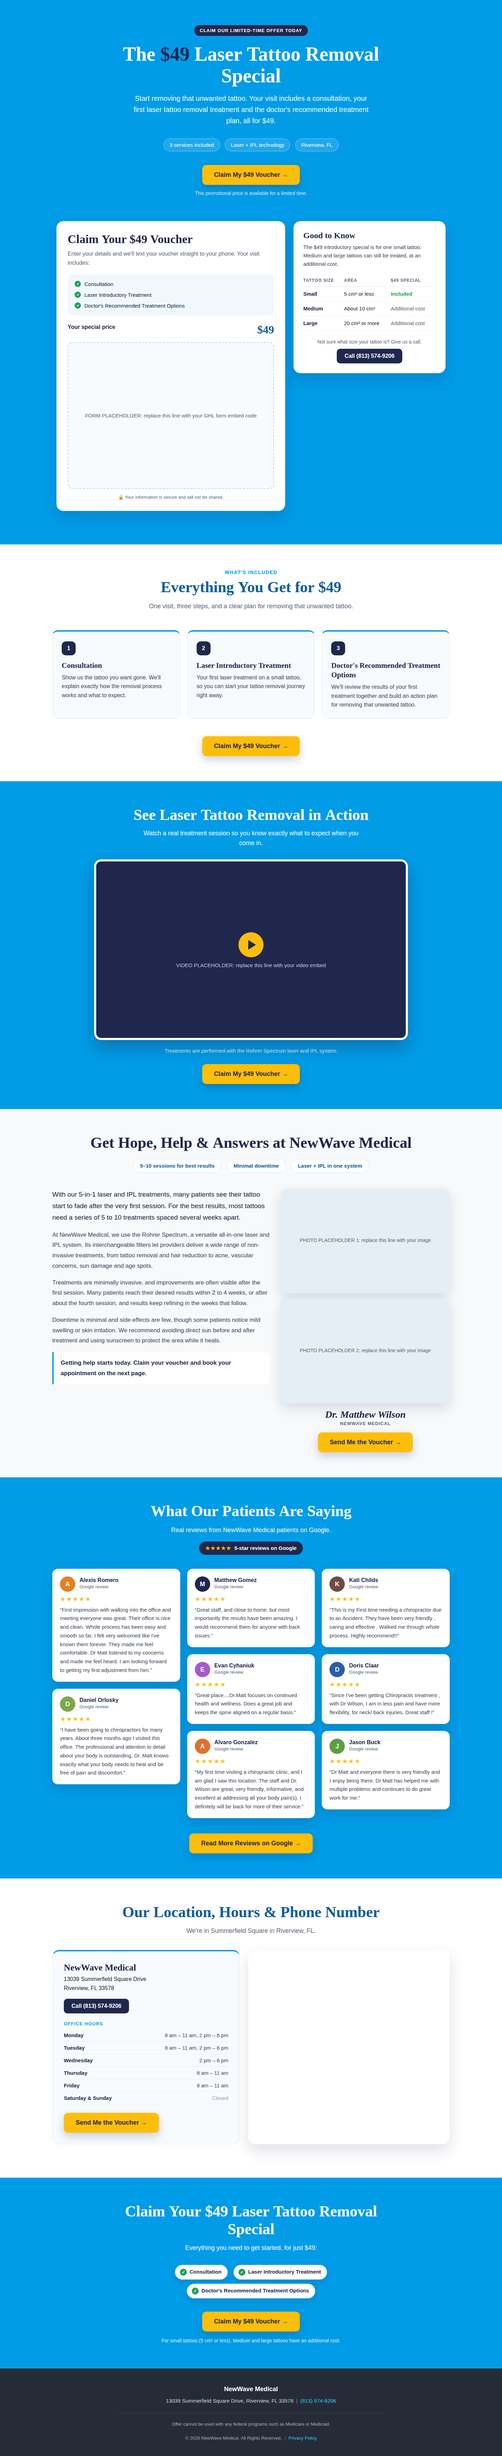
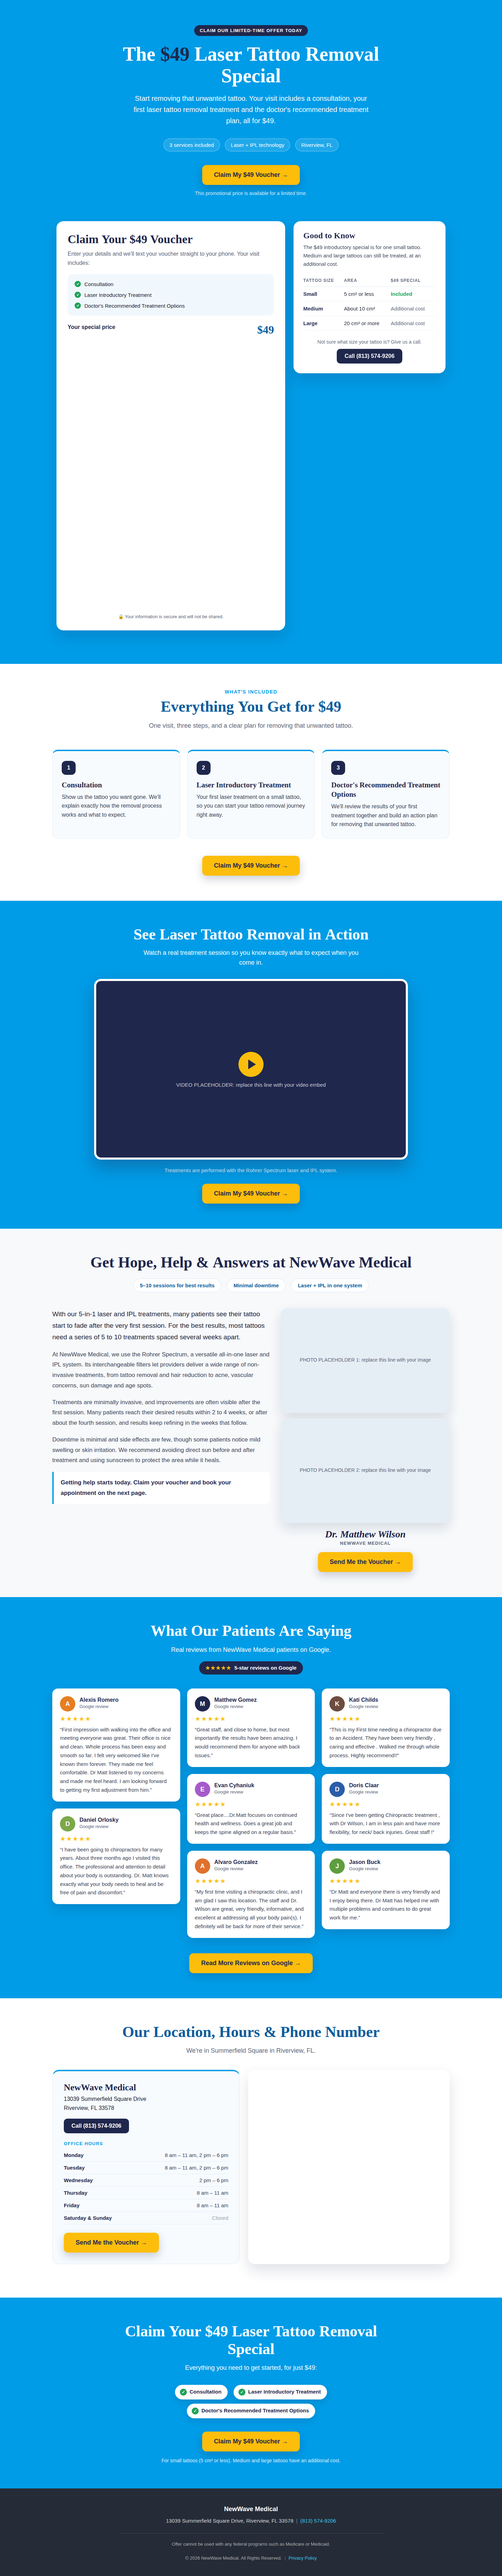
Refresh Laser Tattoo Removal preview and screenshots
Claude-Session: https://claude.ai/code/session_01VoCMqezTSef51VrR3ts6qG

Changed region(s): [[0.0, 0.1874, 1.0, 0.9997], [0.125, 0.0, 0.875, 0.1562]]

diff --git a/ghl-funnel-tattoo/preview.html b/ghl-funnel-tattoo/preview.html
@@ -1,5 +1,5 @@
 <!doctype html>
-<html lang="en"><head><meta charset="utf-8"><meta name="viewport" content="width=device-width, initial-scale=1"><title>Funnel Preview</title>
+<html lang="en"><head><meta charset="utf-8"><meta name="viewport" content="width=device-width, initial-scale=1"><title>Laser Tattoo Removal Funnel Preview</title>
 <style>html{scroll-behavior:smooth}body{margin:0;background:#009CE7}</style></head><body>
 <script>(function(d){if(d.className.indexOf('nwm-js')<0&&('IntersectionObserver' in window)&&!(window.matchMedia&&window.matchMedia('(prefers-reduced-motion: reduce)').matches)){d.className+=' nwm-js';setTimeout(function(){d.className+=' nwm-anim-fallback';},3000);}})(document.documentElement);</script>
 <style>
